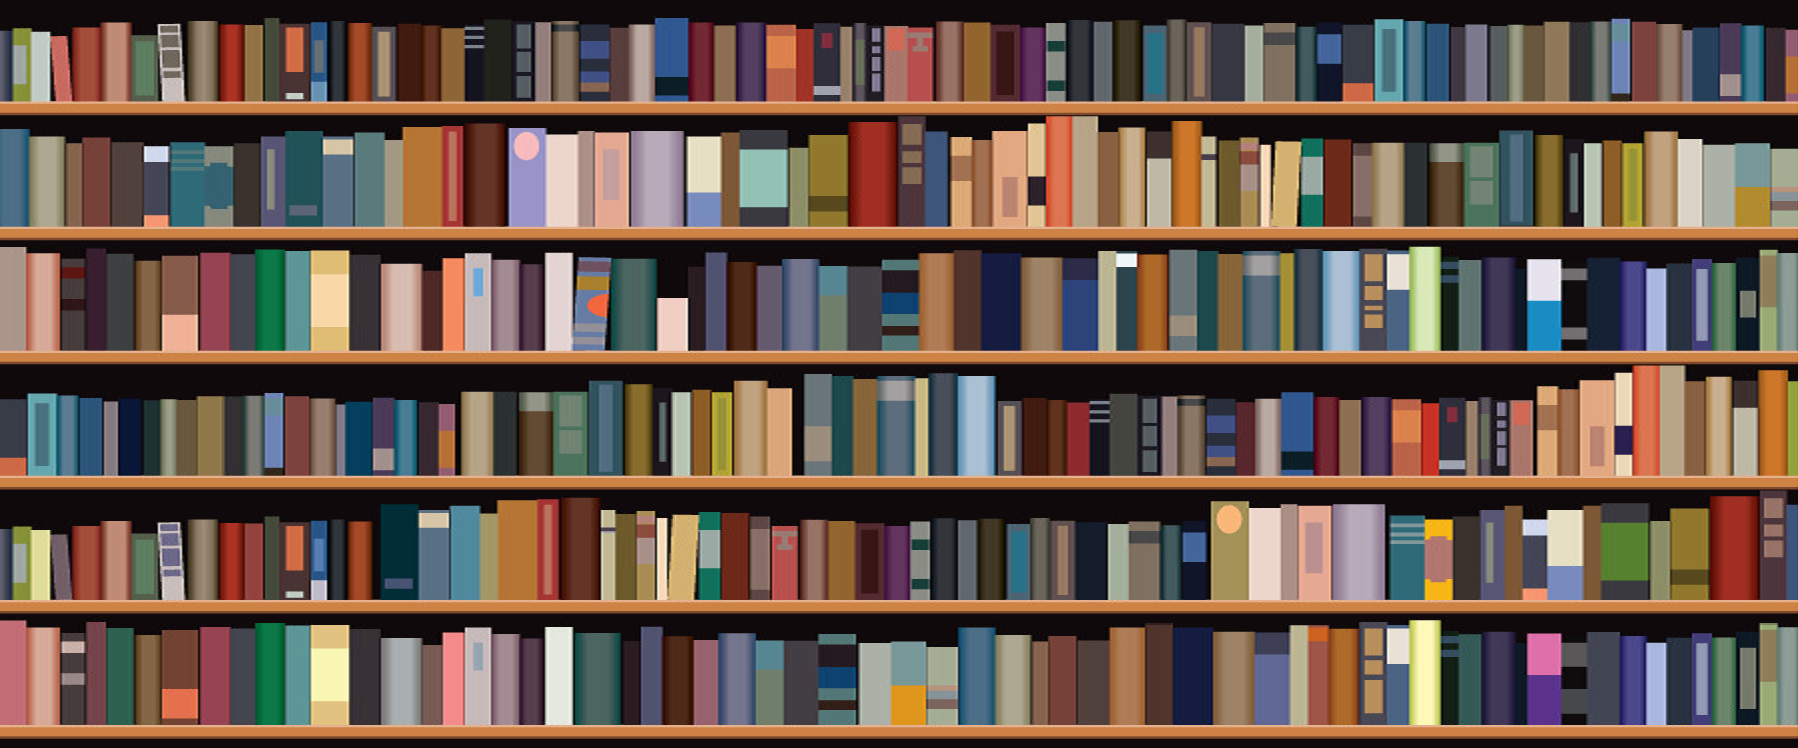
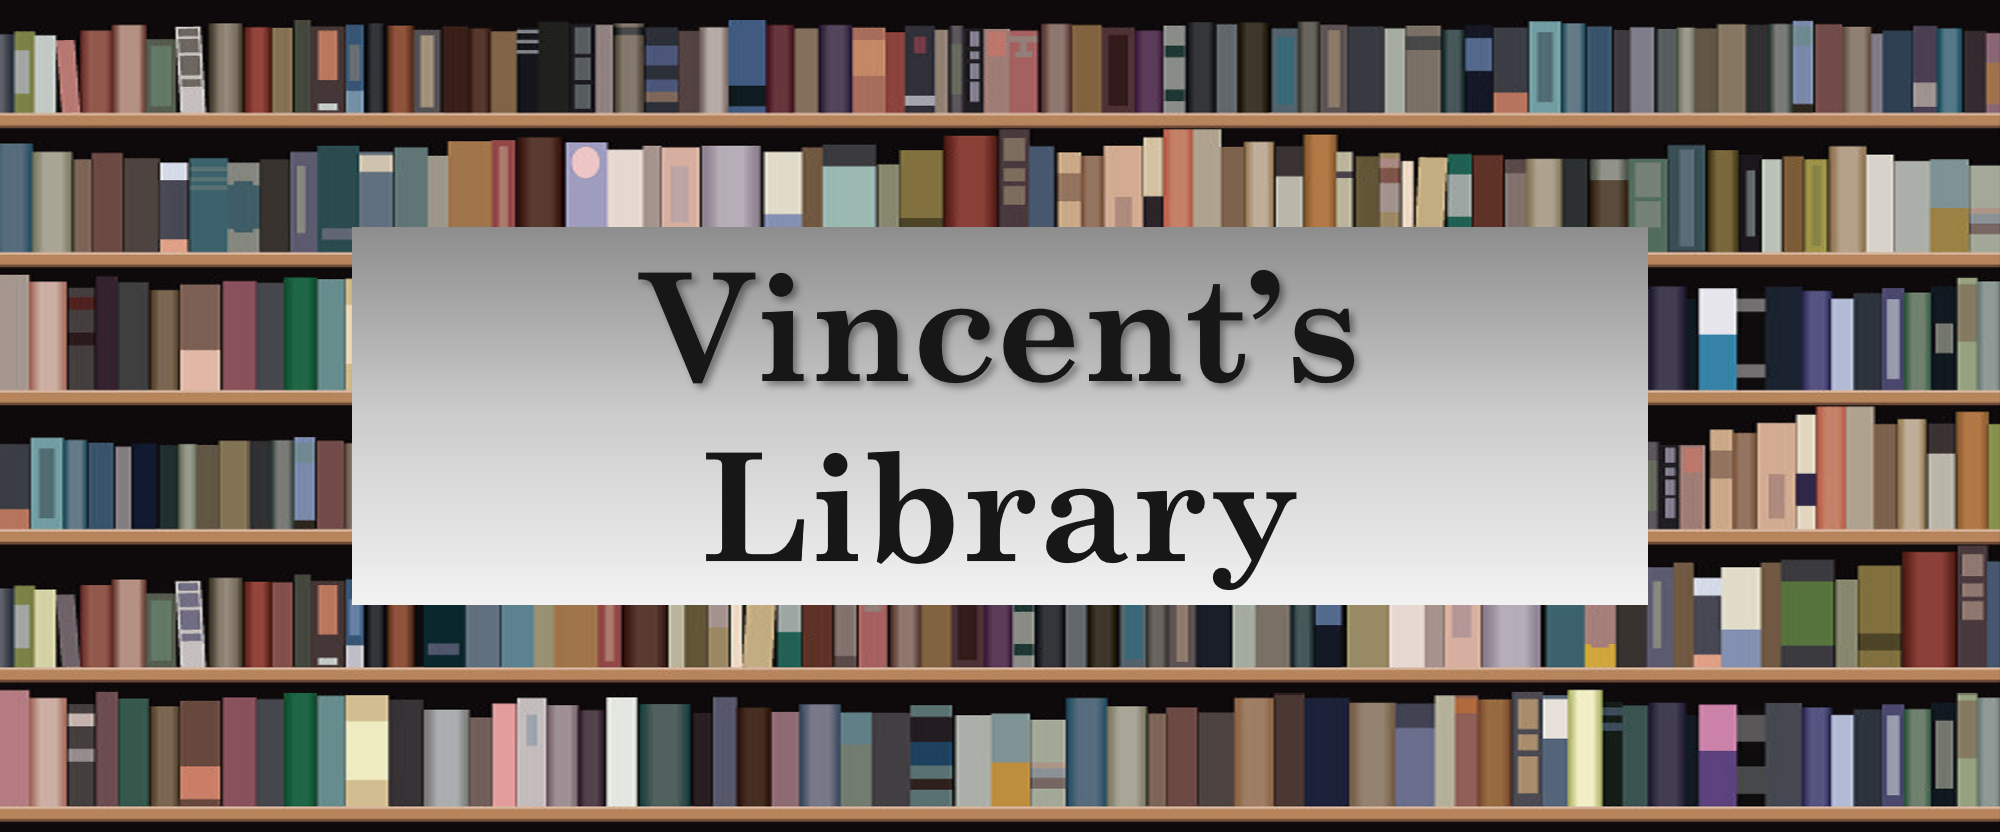
Added Catcher in the Rye Page

diff --git a/citr.html b/citr.html
@@ -1,0 +1,62 @@
+<!DOCTYPE html PUBLIC "-//W3C//DTD XHTML 1.0 Strict//EN"
+          "http://www.w3.org/TR/xhtml1/DTD/xhtml1-strict.dtd">
+
+<html lang="en" xmlns="http://www.w3.org/1999/xhtml">
+<head>
+    <meta charset="utf-8" />
+    <title>HomePage: Vincent's Library</title>
+
+    <Link href="stylesheets/citrFormat.css" rel="stylesheet" />
+    <script src="https://ajax.googleapis.com/ajax/libs/jquery/3.5.1/jquery.min.js"></script>
+
+</head>
+
+<body>
+    <div id = "hero-image">
+        <p>"My hunting hat really gave me a lot of protection, in a way, but I got soaked anyway.
+            I didn't care though. I felt so damn happy all of the sudden"
+        </p>
+    </div>
+
+    <div id="navBar">
+        <ul>
+            <li class="navBarOpt"><a href="index.html">Home</a></li>
+            <li class="navBarOpt"><a href="">About</a></li>
+            <li class="navBarOpt"><a href="">Books</a></li>
+            <li class="navBarOpt"><a href="">Contact</a></li>
+        </ul>
+    </div>
+
+    <h1>The Catcher in the Rye</h1>
+    <h3>J.D. Salinger</h3>
+
+    <div id = "review">
+        <h2>A Contested Book</h2>
+        <p>Very few books hold as crazy as a history The Catcher in the Rye does.
+            John Lennon's murderer, Mark David Chapman, infamously revered the 
+            novel's protagonist, Holden Caulfield. After shooting Lennon, Chapman
+            remained at the scene reading the novel. Even in court, Chapman claimed
+            his motivation for killing Lennon was to promote reading The Catcher in
+            the Rye. 
+         </p>
+        <p>
+            Adding on to the book's infamy, Regan's attempted assassin, John Hinckley
+            Jr., admired Chapman and kept a copy of the book in his hotel room.
+            With two murderers identifying with Holden Caulfield, The Catcher in the
+            Rye has been a popular target for censorship and book bannings.
+            Even without mentioning the murders, many overly-concerned parents have raised issue
+            with the novel's crude language, flippant discussion of teen sexuality, and 
+            misanthropic and self-destructive protagonist Holden Caulfield.
+        </p>
+        <p>
+            However it is Holden's crude language, unfiltered honesty, and 
+            outward hostility that makes The Catcher in the Rye a masterpiece.
+            Despite the novel being published in 1951, Holden still sounds and acts
+            like any modern adolescent. Beneath the layer of calling everyone
+            "phonies", random conversations, and seemingly meaningless anecdotes, lies
+            universal anxieties that allow all readers to symapthize with Holden.
+        </p>
+    </div>
+
+</body>
+</html>

diff --git a/stylesheets/citrFormat.css b/stylesheets/citrFormat.css
@@ -1,11 +1,11 @@
-html, body {
+html, body {
     height: 100%;
     width: 100%;
     margin: 0;
 }
 #hero-image {
     background-image: linear-gradient(rgba(0, 0, 0, 0.5), rgba(0, 0, 0, 0.5));
-    background-image: url("../images/heroImage.png");
+    background-image: url("../images/citrBanner.png");
     height: 50%;
     background-position: center;
     background-repeat: no-repeat;
@@ -13,8 +13,17 @@
     position: relative;
 }
 
-
-
+#hero-image p {
+    text-align: center;
+    font-style: italic;
+    font-size: 50px;
+    padding-top: 50px;
+    padding-left: 20px;
+    padding-right: 20px;
+    font-family: 'Playfair Display', Times, serif;
+    background-color: rgba(0,0,0, 0.4); /* Black w/opacity/see-through */
+    color: white;
+}
 
 #navBar ul {
     list-style-type: none;
@@ -39,44 +48,13 @@
     background-color: #80179B;
 }
 
-#intro {
+h1, h3{
     text-align: center;
 }
 
-a:visited {
-    color:white;
-}
-
-#bookshelf {
+#review {
+    text-align: justify;
     padding-left: 15%;
     padding-right: 15%;
-}
-
-h2 {
-    text-align: center;
-}
-.novelOpt {
-    width: 20%;
-    height: 33%;
-    margin: 10px;
-    padding: 15px;
-    border: 1px solid #ccc;
-    text-align: center;
-    cursor: pointer;
-    float: left;
-}
-
-    .novelOpt img {
-        width: 200px;
-        height: 320px;
-    }
-
-    .novelOpt:hover {
-        border: 1px solid #000000;
-    }
-
-    
-
-.hideMe {
-    opacity: 0;
+    font-family: 'Playfair Display', Times, serif;
 }

diff --git a/index.html b/index.html
@@ -13,9 +13,6 @@
 </head>
 <body>
     <div id="hero-image">
-        <div id="hero-text">
-            <h1>Vincent's Library</h1>
-        </div>
     </div>
     
 
@@ -32,12 +29,16 @@
         This site will continuously grow as more books and pages are added. Please stay tune.
     </p>
     <section id="bookshelf">
+        
         <h2>Novels</h2>
-        <div class="novelOpt hideMe">
+        <div class="novelOpt hideMe" onclick="location.href='citr.html';">
+            
             <img src="images/Catcher_In_The_Rye_Icon.png" />
             <p>The Catcher in the Rye</p>
             <p>J.D. Salinger</p>
+            
         </div>
+        
         <div class="novelOpt hideMe">
             <img src="images/Song_Of_Solomon_Icon.png" />
             <p>Song of Solomon</p>

diff --git a/jsfiles/homeScript.js b/jsfiles/homeScript.js
@@ -39,7 +39,7 @@ $(document).ready(function () {
             var bot_of_object = $(this).offset().top + $(this).outerHeight();
             var bot_of_page = $(window).scrollTop() + $(window).height();
             if (bot_of_page > bot_of_object) {
-                $(this).animate({ 'opacity': '1' }, 500)
+                $(this).animate({ 'opacity': '1' }, 1000)
             }
         });
     });
